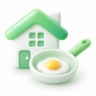
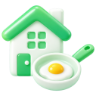
画面内アイコンを背景透明の画像に差し替え（ダークモードで白いタイルが浮かないように）
- 元画像を赤紫（#FF00FF）背景で作り、make-ui-icons.mjs で赤紫を透明にし、縁の赤紫のにじみも取り除く
- 白い角丸タイルの表示をやめ、アイコンだけを 28px で表示

Claude-Session: https://claude.ai/code/session_016qGcDxP99Q4wqRwXM1c24j

diff --git a/src/styles.css b/src/styles.css
@@ -197,8 +197,8 @@ textarea.input { height: auto; min-height: 44px; resize: vertical; font-size: 16
 .ex-card:first-of-type { border-top: none; padding-top: 0; }
 .ex-name { font-weight: 700; font-size: 16px; }
 .suggest { font-size: 13px; font-weight: 700; color: var(--text-2); display: flex; align-items: center; gap: 6px; }
-/* 画面の中の小さなアイコン（白い角丸のタイル） */
-.ui-icon { width: 26px; height: 26px; border-radius: 7px; flex-shrink: 0; box-shadow: 0 0 0 1px var(--border); vertical-align: middle; }
+/* 画面の中の小さなアイコン（背景は透明） */
+.ui-icon { width: 28px; height: 28px; flex-shrink: 0; vertical-align: middle; }
 .suggest.up { color: var(--accent); }
 .set-row { display: grid; grid-template-columns: 28px 1fr 1fr 52px; gap: 6px; align-items: center; }
 .set-row .idx { color: var(--muted); font-size: 14px; text-align: center; }
